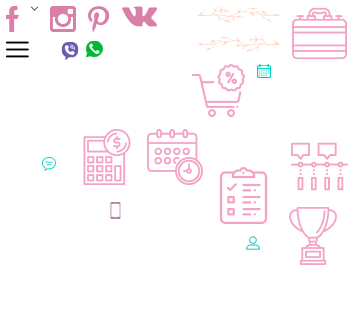
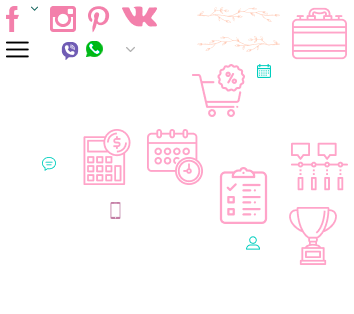
select поля некорректно отображались в опере, исправлено

diff --git a/wedding-main/css/style.css b/wedding-main/css/style.css
@@ -735,9 +735,17 @@ header{
 	border-radius: 30px;
 	color: #B0B0B0;
 	line-height: 24px;
-	padding: 9px 76px 9px 10px;
+	padding: 9px 20px 9px 20px;
+    width: 17.4%;
 	cursor: pointer;
 	margin-bottom: 18px;
+	-moz-appearance: none;
+	-webkit-appearance: none;	
+	outline: none;
+	background-image: url("../img/arrow-down.png");
+	background-repeat: no-repeat;
+	background-size: 9px;
+	background-position: 90% center;
 }
 .top-content,
 .top-platforms-content{
@@ -1920,7 +1928,8 @@ footer{
 	.top-platforms-select{
 		border-radius: 30px;
 		line-height: 24px;
-		padding: 9px 76px 9px 10px;
+		padding: 9px 20px 9px 20px;
+   		width: 27.4%;
 		margin-bottom: 18px;
 	}
 	.top-item{
@@ -2711,8 +2720,10 @@ footer{
 	.top-platforms-select{
 		border-radius: 30px;
 		line-height: 24px;
-		padding: 9px 76px 9px 10px;
+		padding: 9px 20px 9px 20px;
+   		width: 100%;
 		margin-bottom: 18px;
+		background-position: 97% center;
 	}
 	.top-item{
 		width: 186px;
@@ -3557,8 +3568,10 @@ footer{
 	.top-platforms-select{
 		border-radius: 30px;
 		line-height: 24px;
-		padding: 9px 76px 9px 10px;
+		padding: 9px 20px 9px 20px;
+   		width: 100%;
 		margin-bottom: 18px;
+		background-position: 97% center;
 	}
 	.top-item{
 		width: 100%;
@@ -4423,8 +4436,10 @@ footer{
 	.top-platforms-select{
 		border-radius: 30px;
 		line-height: 24px;
-		padding: 9px 76px 9px 10px;
+		padding: 9px 20px 9px 20px;
+   		width: 100%;
 		margin-bottom: 18px;
+		background-position: 97% center;
 	}
 	.top-item{
 		width: 100%;
